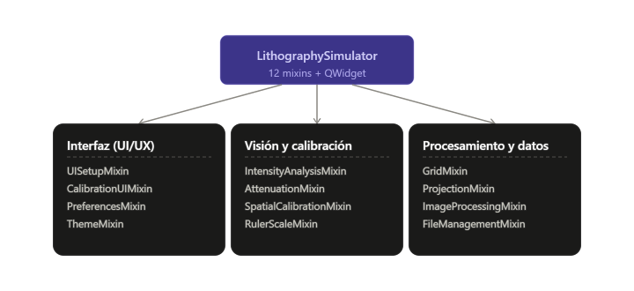
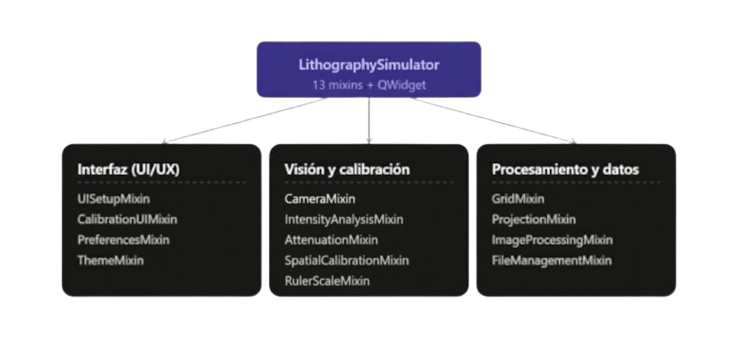
images updated

diff --git a/README_ES.md b/README_ES.md
@@ -30,10 +30,10 @@ Sistema abierto de fotolitografía sin máscara física (*Maskless Photolithogra
   <img src="images/system_assembly.jpg" alt="Estación de Trabajo de Litografía" width="60%" />
 </p>
 <p align="center">
-  <em>Figura 1a: Stepper litográfico con platina motorizada XYZ.</em>
+  <em>Figura 1: Stepper litográfico con base motorizada XYZ.</em>
 </p>
 
-La estación de trabajo acopla un motor de proyección óptica con una platina de traslación de tres ejes controlada mediante comunicación serial:
+La estación de trabajo acopla un motor de proyección óptica con una base de traslación de tres ejes controlada mediante comunicación serial:
 
 | N.º | Componente | Especificación Técnica / Rol |
 | :---: | :--- | :--- |
@@ -44,7 +44,7 @@ La estación de trabajo acopla un motor de proyección óptica con una platina d
 | **5** | Anillo Espaciador Focal | Espaciador óptico que calibra la distancia de trabajo focal hasta el plano del sustrato. |
 | **6** | Ensamblaje de Óptica de Proyección | Stack de lentes compuesto para reducción focal e imagen de plano micrométrico. |
 | **7** | Circuito de Bypass de Color | Circuito temporizador NE555 generando una onda cuadrada de 120 Hz (ciclo de trabajo 10%) para eludir los bloqueos de firmware del proyector. |
-| **8** | Platina de Traslación Cinemática | Platina de traslación micrométrica de 3 ejes. |
+| **8** | base de Traslación Cinemática | base de traslación micrométrica de 3 ejes. |
 | **9** | Motores NEMA 17 | Movimiento a 6.400 pasos/mm con reducciones de engranajes. |
 | **10** | Placa Controladora Creality | Microcontrolador que ejecuta instrucciones de movimiento mediante G-code. |
 
@@ -84,13 +84,13 @@ pip install -r requirements.txt
 
 1. **Configuración de Pantalla (SO):** Fijar el proyector en modo **Extender estas pantallas** (resolución nativa 1920×1080).
 2. **Iluminación de Seguridad:** No exponer placas laminadas a luz blanca o solar directa (se recomienda ambiente de luz de seguridad ámbar/amarilla).
-3. **Alineación de Sustrato:** Montar la placa de cobre laminada sobre la platina motorizada, nivelando el plano focal directamente bajo la óptica de proyección.
+3. **Alineación de Sustrato:** Montar la placa de cobre laminada sobre la base motorizada, nivelando el plano focal directamente bajo la óptica de proyección.
 
 <p align="center">
   <img src="images/uv_exposure_stage.png" alt="Alineación Focal del Sustrato" width="45%" />
 </p>
 <p align="center">
-  <em>Figura 2: Sustrato de cobre laminado alineado sobre la platina bajo proyección UV enfocada.</em>
+  <em>Figura 2: Sustrato de cobre laminado alineado sobre la base bajo proyección UV enfocada.</em>
 </p>
 
 ## Guía de Uso y Manual de Operación
@@ -228,7 +228,7 @@ Permite fabricar escalas de medición física graduadas sobre vidrio o cobre:
 
 1. Abrir la vista **Regla de escala**.
 2. Indicar la separación entre marcas principales en píxeles (calculada a partir del factor de escala del sistema), el número de subdivisiones, grosor de líneas y largo total a recorrer.
-3. Presionar **Iniciar secuencia de escala**: la platina avanzará secuencialmente en el eje X compensando el *backlash* residual y exponiendo tramo por tramo.
+3. Presionar **Iniciar secuencia de escala**: la base avanzará secuencialmente en el eje X compensando el *backlash* residual y exponiendo tramo por tramo.
 
 <p align="center">
   <img src="images/gui_ruler_module.png" alt="GUI del Módulo de Regla" width="56%" />

diff --git a/README.md b/README.md
@@ -30,7 +30,7 @@ Open-source maskless photolithography system for transferring micrometric patter
   <img src="images/system_assembly.jpg" alt="Physical Lithography Workstation" width="60%" />
 </p>
 <p align="center">
-  <em>Figure 1a: Lithography stepper with motorized XYZ stage.</em>
+  <em>Figure 1: Lithography stepper with motorized XYZ stage.</em>
 </p>
 
 The physical workstation couples an optical projection engine with a three-axis motorized motion stage controlled via serial communication:
@@ -200,7 +200,7 @@ If the pattern exceeds the single-exposure optical field of view:
 4. In case of motor stall, misalignment, or collision risk, immediately press the red **STOP** button to abort the routine.
 
 <p align="center">
-  <img src="images/multithread_sequence_diagram.png" alt="Execution Sequence Diagram" width="58%" />
+  <img src="images/multithread_sequence_diagram_en.jpg" alt="Execution Sequence Diagram" width="58%" />
 </p>
 
 <p align="center">
@@ -240,8 +240,7 @@ Fabricates calibrated physical measurement scales on glass or copper substrates:
   <em>Figure 7: (a) Scale ruler generator interface.</em>
 </p>
 <p align="center">
-
-<img src="images/micrometric_ruler_glass.png" alt="Microfabricated Ruler on Glass" width="40%" />
+  <img src="images/micrometric_ruler_glass.png" alt="Microfabricated Ruler on Glass" width="40%" />
 </p>
 <p align="center">
   <em>Figure 7: (b) Microfabricated micrometer ruler on glass, verified against a 100 µm reference wire.</em>
@@ -291,7 +290,7 @@ The control engine is architected around a centralized multi-mixin design patter
   <em>Figure 9: (a) Modular controller composition via 13 mixins + QWidget.</em>
 </p>
 <p align="center">
-  <img src="images/backlash_softlimits_flow.png" alt="Backlash and Soft Limits Flowchart" width="40%" />
+  <img src="images/backlash_softlimits_flow_en.jpg" alt="Backlash and Soft Limits Flowchart" width="40%" />
 </p>
 <p align="center">
   <em>Figure 9: (b) Kinematic decision tree enforcing soft travel limits and backlash absorption.</em>
